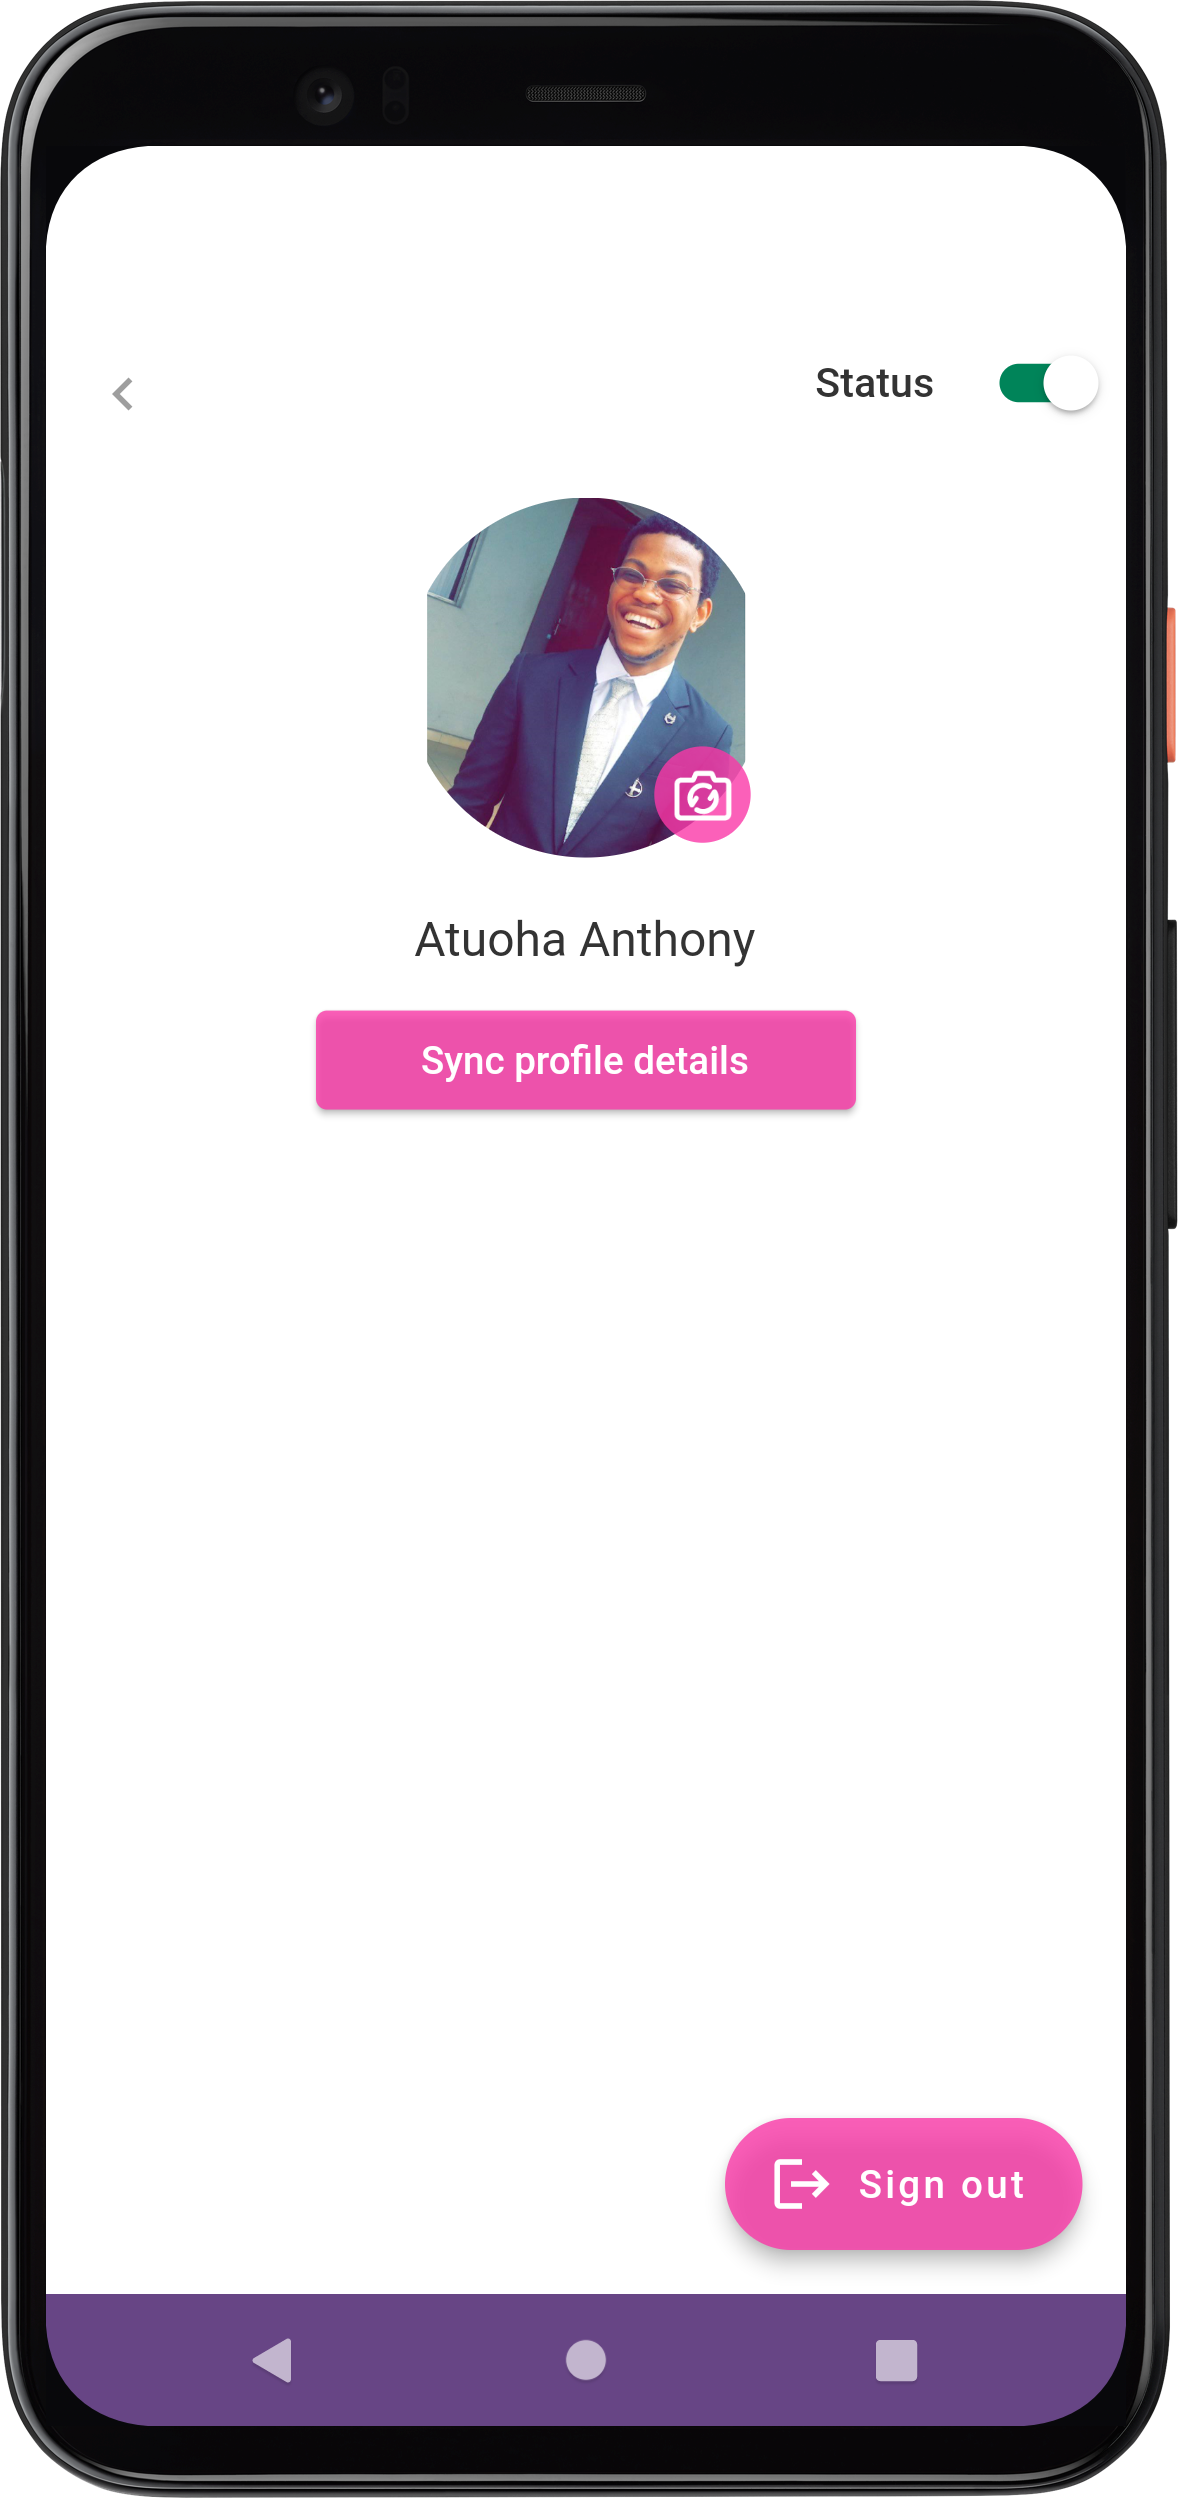
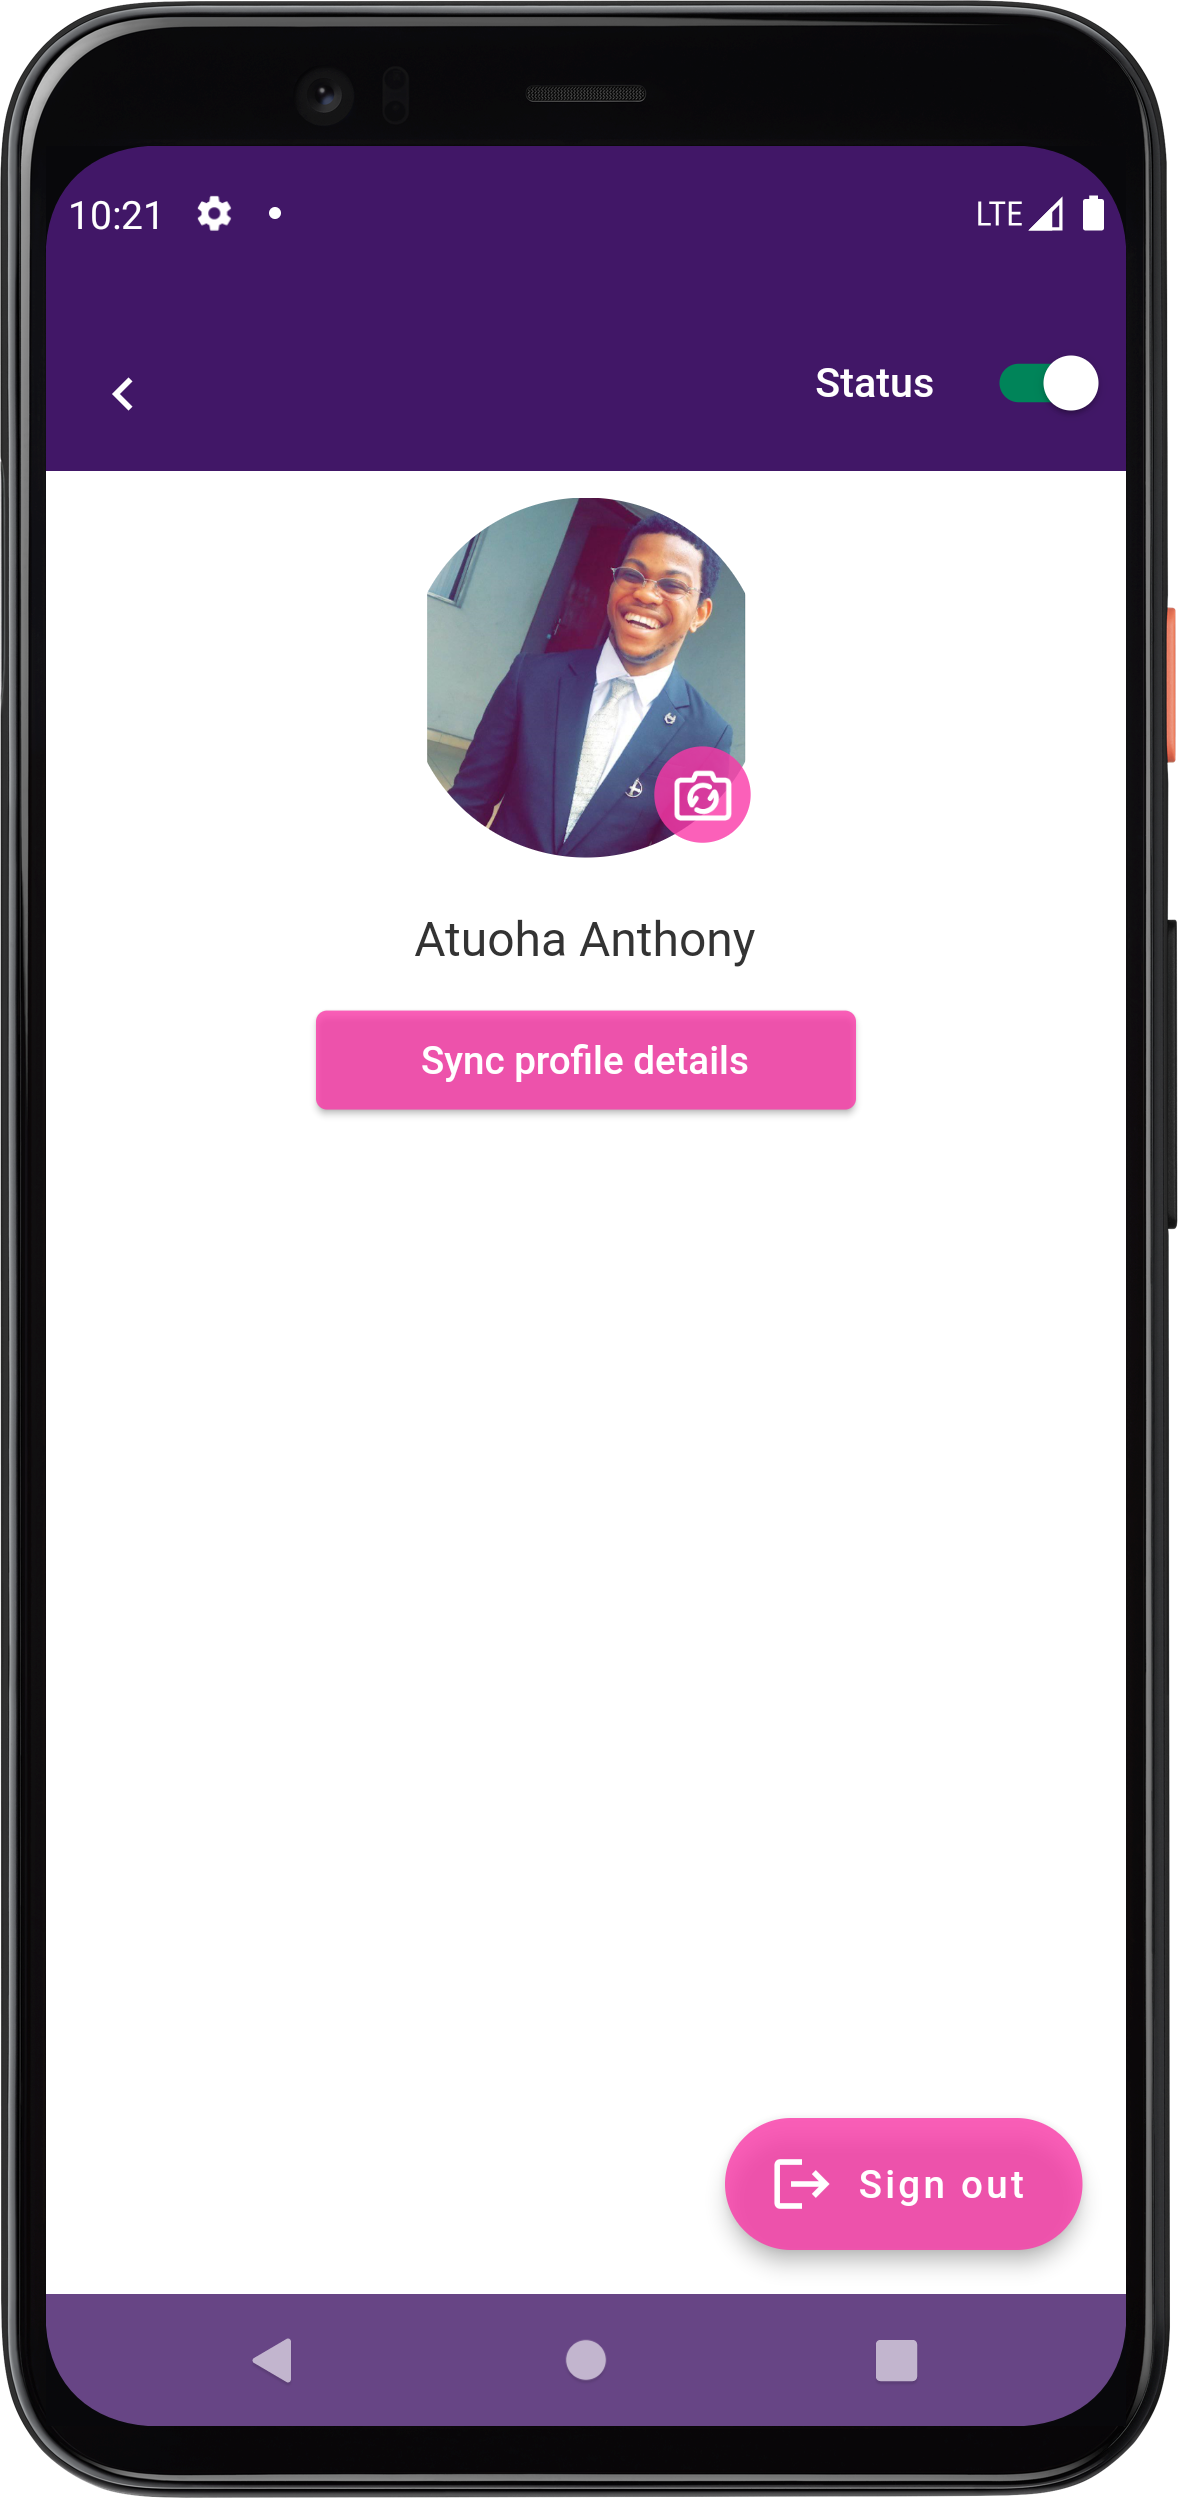
refactoring contacts, profile and assigning fnc to attachment widgets

Changed region(s): [[0.0306, 0.0312, 0.9779, 0.1873]]

diff --git a/lib/pages/contacts/widgets/contacts_list.dart b/lib/pages/contacts/widgets/contacts_list.dart
@@ -3,6 +3,7 @@ import 'package:flutter/material.dart';
 import 'package:flutter_screenutil/flutter_screenutil.dart';
 import 'package:get/get.dart';
 import '../../../common/entities/contact.dart';
+import '../../../common/style/color.dart';
 import '../../../generated/assets.dart';
 import '../controller.dart';
 
@@ -56,24 +57,42 @@ class ContactList extends GetView<ContactsController> {
   @override
   Widget build(BuildContext context) {
     return Obx(
-      () => CustomScrollView(
-        slivers: [
-          SliverPadding(
-            padding: EdgeInsets.symmetric(
-              vertical: 0.w,
-              horizontal: 0.w,
-            ),
-            sliver: SliverList(
-              delegate: SliverChildBuilderDelegate(
-                (context, index) {
-                  var contactItem = controller.state.contactList[index];
-                  return _buildContactItem(contactItem);
-                  print(contactItem.name);
-                },
-                childCount: controller.state.contactList.length,
+      () => Column(
+        crossAxisAlignment: CrossAxisAlignment.start,
+        children: [
+          Padding(
+            padding: const EdgeInsets.only(top: 18.0, left: 18),
+            child: Text(
+              'All Contacts',
+              style: TextStyle(
+                color: AppColor.secondaryText,
+                fontWeight: FontWeight.w500,
+                fontSize: 18.sp,
               ),
             ),
-          )
+          ),
+          const SizedBox(height: 15),
+          Expanded(
+            child: CustomScrollView(
+              slivers: [
+                SliverPadding(
+                  padding: EdgeInsets.symmetric(
+                    vertical: 0.w,
+                    horizontal: 0.w,
+                  ),
+                  sliver: SliverList(
+                    delegate: SliverChildBuilderDelegate(
+                      (context, index) {
+                        var contactItem = controller.state.contactList[index];
+                        return _buildContactItem(contactItem);
+                      },
+                      childCount: controller.state.contactList.length,
+                    ),
+                  ),
+                )
+              ],
+            ),
+          ),
         ],
       ),
     );

diff --git a/lib/pages/contacts/view.dart b/lib/pages/contacts/view.dart
@@ -9,40 +9,50 @@ class ContactsPage extends GetView<ContactsController> {
   @override
   Widget build(BuildContext context) {
     return Scaffold(
-      appBar: _buildAppBar(),
+      appBar: AppBar(
+        automaticallyImplyLeading: false,
+        title: Column(
+          mainAxisSize: MainAxisSize.min,
+          crossAxisAlignment: CrossAxisAlignment.start,
+          children: [
+            const Text(
+              'Select Contact',
+              style: TextStyle(
+                fontWeight: FontWeight.bold,
+                fontSize: 18,
+                color: Colors.white,
+              ),
+            ),
+            const SizedBox(height: 5),
+            Obx(
+              () => Text(
+                '${controller.state.contactList.length} contacts',
+                style: const TextStyle(
+                  fontWeight: FontWeight.normal,
+                  fontSize: 16,
+                  color: Colors.white,
+                ),
+              ),
+            )
+          ],
+        ),
+        leading: Builder(
+          builder: (context) => GestureDetector(
+            onTap: () => Navigator.of(context).pop(),
+            child: const Icon(
+              Icons.chevron_left,
+              color: Colors.white,
+            ),
+          ),
+        ),
+        actions: const [
+          IconButton(
+            onPressed: null,
+            icon: Icon(Icons.search, color: Colors.white),
+          )
+        ],
+      ),
       body: const ContactList(),
     );
   }
-}
-
-// appbar
-AppBar _buildAppBar() {
-  return AppBar(
-    automaticallyImplyLeading: false,
-    backgroundColor: Colors.transparent,
-    title: const Text(
-      'Select Contact',
-      style: TextStyle(
-        fontWeight: FontWeight.normal,
-        fontSize: 16,
-      ),
-    ),
-    leading: Builder(
-      builder: (context) => GestureDetector(
-        onTap: () => Navigator.of(context).pop(),
-        child: const Icon(
-          Icons.chevron_left,
-          color: Colors.grey,
-        ),
-      ),
-    ),
-    actions: const [
-      IconButton(
-        onPressed: null,
-        icon: Icon(
-          Icons.search,
-        ),
-      )
-    ],
-  );
 }

diff --git a/lib/pages/message/chats/view.dart b/lib/pages/message/chats/view.dart
@@ -206,32 +206,32 @@ class ChatPage extends GetView<ChatController> {
                         AttachWidget(
                           image: Assets.iconsPhoto,
                           title: 'Photo Gallery',
-                          function: () {},
+                          function: controller.photoGalleryHandler,
                         ),
                         AttachWidget(
                           image: Assets.iconsVoice,
                           title: 'Voice Record',
-                          function: () {},
+                          function: controller.voiceRecordHandler,
                         ),
                         AttachWidget(
                           image: Assets.iconsFile,
                           title: 'File Upload',
-                          function: () {},
+                          function: controller.fileHandler,
                         ),
                         AttachWidget(
                           image: Assets.iconsVideo,
-                          title: 'Video Upload',
-                          function: () {},
+                          title: 'Video Call',
+                          function: controller.videoCallHandler,
                         ),
                         AttachWidget(
                           image: Assets.iconsCall,
-                          title: 'Contacts',
-                          function: () {},
+                          title: 'Phone Call',
+                          function: controller.phoneCallHandler,
                         ),
                         AttachWidget(
                           image: Assets.iconsLocation,
                           title: 'Location',
-                          function: () {},
+                          function: controller.locationHandler,
                         ),
                       ],
                     ),

diff --git a/lib/pages/profile/view.dart b/lib/pages/profile/view.dart
@@ -58,13 +58,12 @@ class ProfilePage extends GetView<ProfileController> {
   AppBar _buildAppBar() {
     return AppBar(
       automaticallyImplyLeading: false,
-      backgroundColor: Colors.transparent,
       leading: Builder(
         builder: (context) => GestureDetector(
           onTap: () => Navigator.of(context).pop(),
           child: const Icon(
             Icons.chevron_left,
-            color: Colors.grey,
+            color: Colors.white,
           ),
         ),
       ),
@@ -75,7 +74,7 @@ class ProfilePage extends GetView<ProfileController> {
             const Text(
               'Status',
               style: TextStyle(
-                color: AppColor.primaryText,
+                color: Colors.white,
                 fontSize: 15,
               ),
             ),

diff --git a/lib/pages/message/chats/controller.dart b/lib/pages/message/chats/controller.dart
@@ -19,9 +19,32 @@ class ChatController extends GetxController {
     state.toToken.value = parameters['to_token'] ?? "";
   }
 
-
-  void toggleAttachmentBtnExpansion(){
+  // toggle attachment widget
+  void toggleAttachmentBtnExpansion() {
     state.isAttachBtnExpanded.value = !state.isAttachBtnExpanded.value;
   }
 
+  void fileHandler() {
+    print('fileHandler');
+  }
+
+  void locationHandler() {
+    print('locationHandler');
+  }
+
+  void videoCallHandler() {
+    print('videoCallHandler');
+  }
+
+  void voiceRecordHandler() {
+    print('voiceRecordHandler');
+  }
+
+  void photoGalleryHandler() {
+    print('photoGalleryHandler');
+  }
+
+  void phoneCallHandler() {
+    print('phoneCallHandler');
+  }
 }
